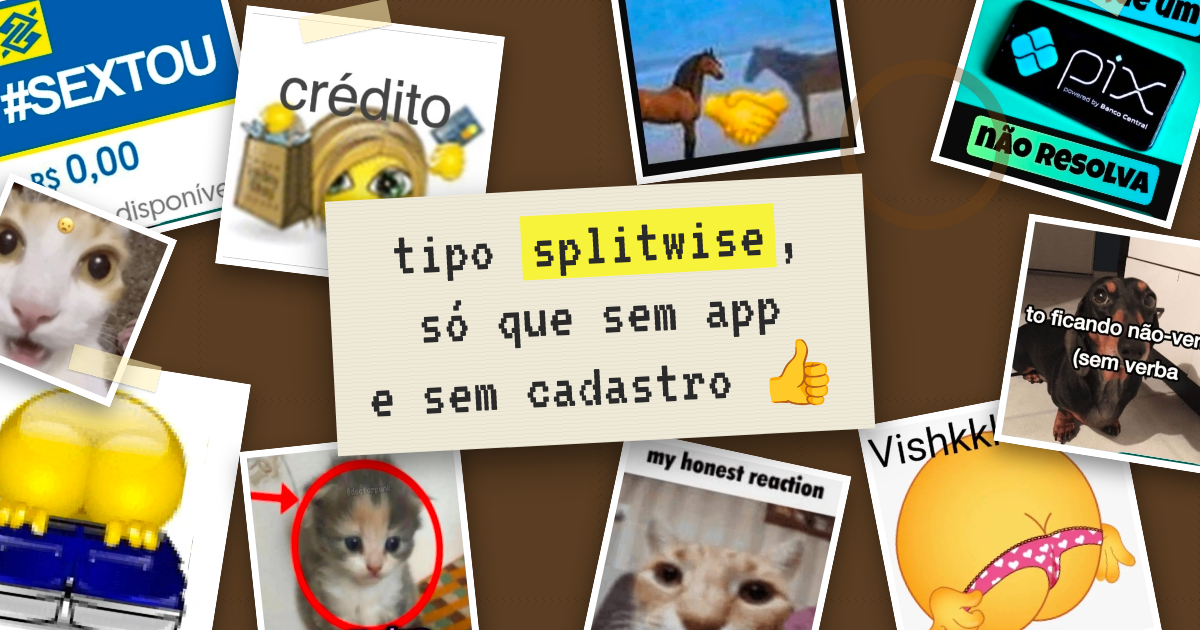
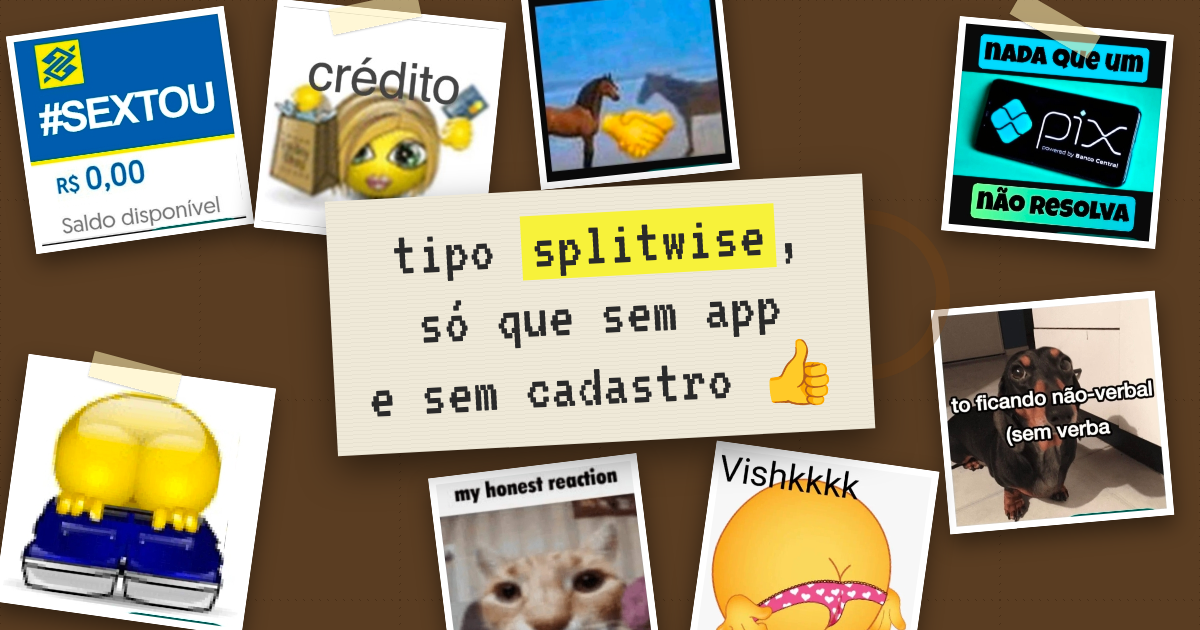
'Evento' sem dois-pontos; link do pix sem emoji; prévia sem figurinhas cortadas
Claude-Session: https://claude.ai/code/session_01H4eTjd99awd9v2hmnSNs4M

diff --git a/index.html b/index.html
@@ -100,7 +100,7 @@
   <div class="stain"></div>
   <h1>Tô lisa</h1>
   <div class="c muted" style="margin:-2px 0 6px;text-transform:none">quem me deve?</div>
-  <div class="c">Evento: <a class="link" id="roomLabel">—</a><br><span id="whoLine"></span></div>
+  <div class="c">Evento <a class="link" id="roomLabel">—</a><br><span id="whoLine"></span></div>
 
   <div class="hr"></div>
 
@@ -302,7 +302,7 @@
       $('#mine').classList.remove('hidden');
       $('#mineRows').innerHTML = ln('+ paguei', fmt(paid/100)) + ln('− minha parte', fmt(part/100)) + ln(bal > 0 ? '= me devem' : bal < 0 ? '= devo' : '= quites', fmt(Math.abs(bal)/100), bal > 0 ? 'pos' : bal < 0 ? 'neg' : ''); }
     else $('#mine').classList.add('hidden');
-    $('#pixLine').innerHTML = hasMe ? (pixKeys[me] ? `minha chave pix ✔ <span class="pixi">${PIX_SVG}</span> · <a class="link" id="pixBtn">alterar</a>` : `<a class="link" id="pixBtn">minha chave pix 🔑 <span class="pixi">${PIX_SVG}</span></a>`) : '';
+    $('#pixLine').innerHTML = hasMe ? (pixKeys[me] ? `minha chave pix ✔ <span class="pixi">${PIX_SVG}</span> · <a class="link" id="pixBtn">alterar</a>` : `<a class="link" id="pixBtn">minha chave pix <span class="pixi">${PIX_SVG}</span></a>`) : '';
     if ($('#pixBtn')) $('#pixBtn').onclick = savePix;
       $('#peopleLine').innerHTML = state.people.map(p => nm(p.id)).join(', ') || 'ninguém';
 
